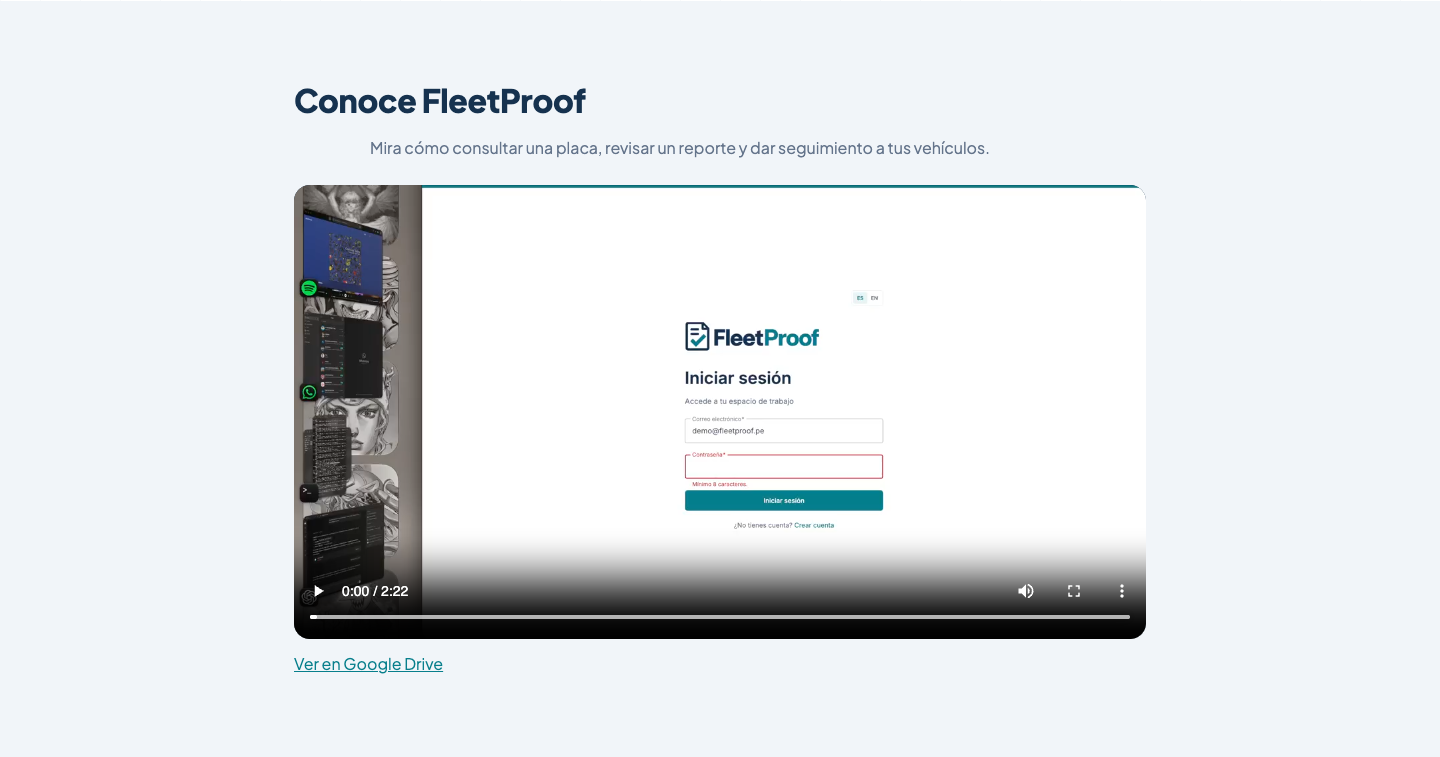
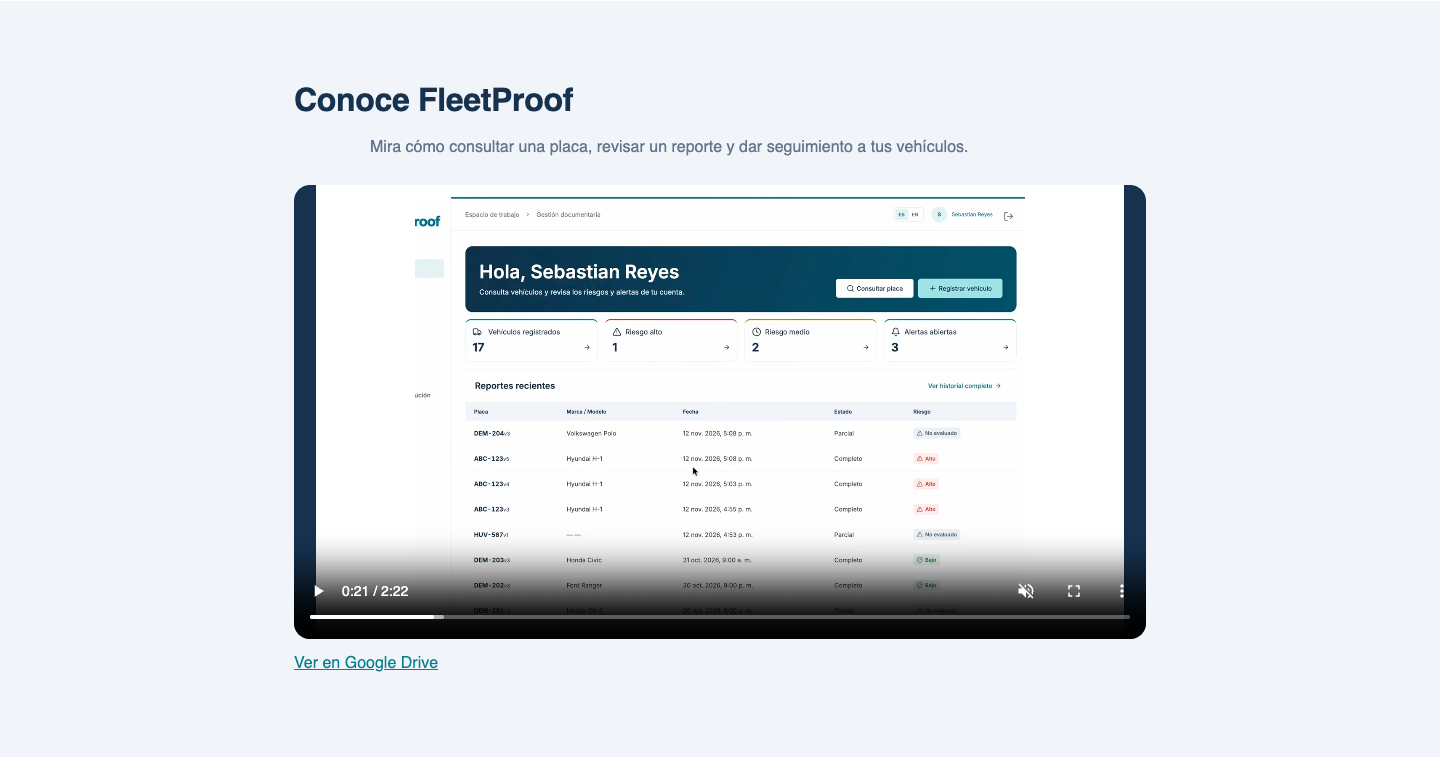
docs: actualiza la captura del video publicado

diff --git a/docs/06-chapter-5-implementation-validation-deployment.md b/docs/06-chapter-5-implementation-validation-deployment.md
@@ -1411,6 +1411,6 @@ El video muestra el recorrido de FleetProof para consultar una placa, interpreta
 | Incorporación a la entrega AV2 | 12 de noviembre de 2026 |
 | Reproductor | [Sobre BLIP en la landing](https://fleetproof-landingpage.netlify.app/#about-blip) |
 
-[![Reproductor About the Product en la vista local de la landing](assets/chapter-5/sprint-3/about-the-product-player.png)](https://drive.google.com/file/d/1k0bitM5iUU-4UJTjsc9pVj1xav-0AAPJ/view?usp=sharing)
+[![Reproductor del video recortado en la landing publicada](assets/chapter-5/sprint-3/about-the-product-player.png)](https://drive.google.com/file/d/1k0bitM5iUU-4UJTjsc9pVj1xav-0AAPJ/view?usp=sharing)
 
-**Figura 5.32.** Reproductor en la vista local de la landing de FleetProof.
+**Figura 5.32.** Reproductor del video recortado en la landing de FleetProof publicada en Netlify.
